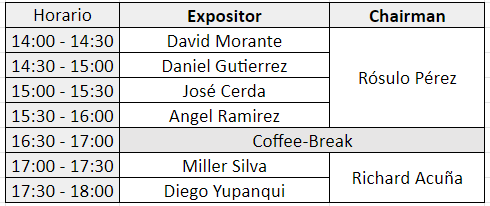
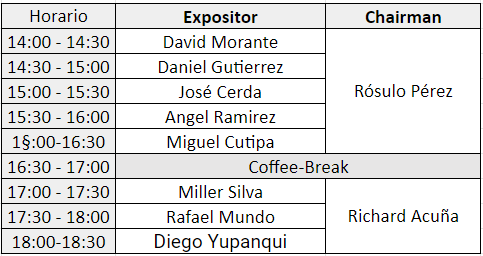
expo6

diff --git a/src/pages/AlumnosYEgresados/TabsContent/Divulgaciones/Expociencia.tsx b/src/pages/AlumnosYEgresados/TabsContent/Divulgaciones/Expociencia.tsx
@@ -152,8 +152,9 @@ sus cinco escuelas y tiene como finalidad difundir a los alumnos, básicamente d
               José Cerda. Una aplicación al estudio de la anemia en el Perú
             </li>
             <li>Angel Ramirez. Descomposición de valores singulares en imágenes</li>
-            <li>Ruben Lizarbe. Números primos y Criptografía RSA</li>
+            <li>Miguel Cutipa. Resolución numérica del problema de corte</li>
             <li>Miller Silva. The Kissing Number</li>
+            <li>Rafael Mundo. Detección de objetos usando redes neuronales</li> 
             <li>Diego Yupanqui. Formación de imágenes de F-dispersa</li>
             
           </ol>
